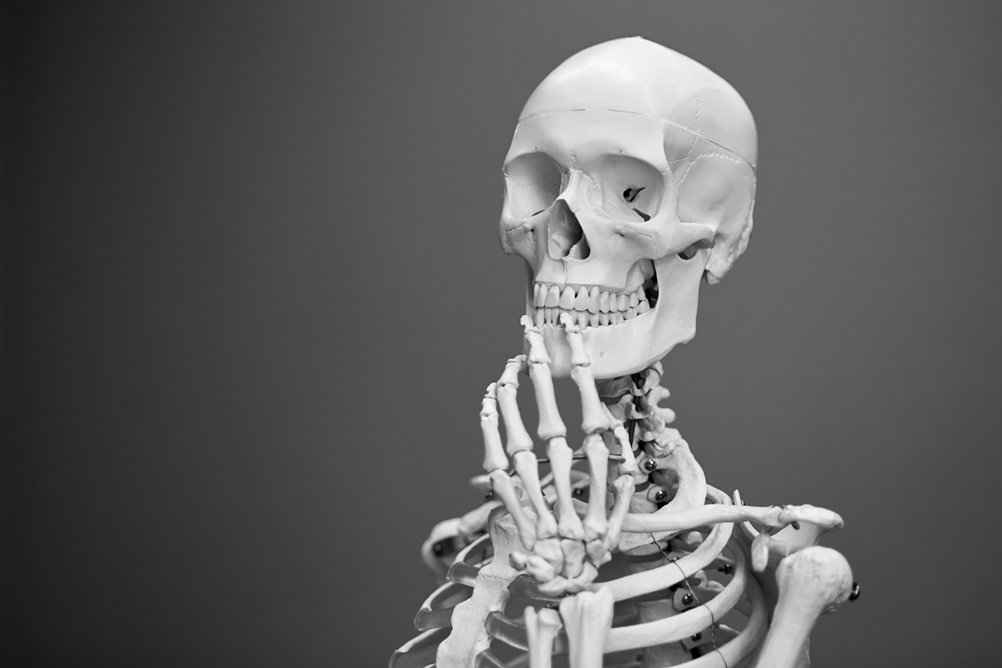
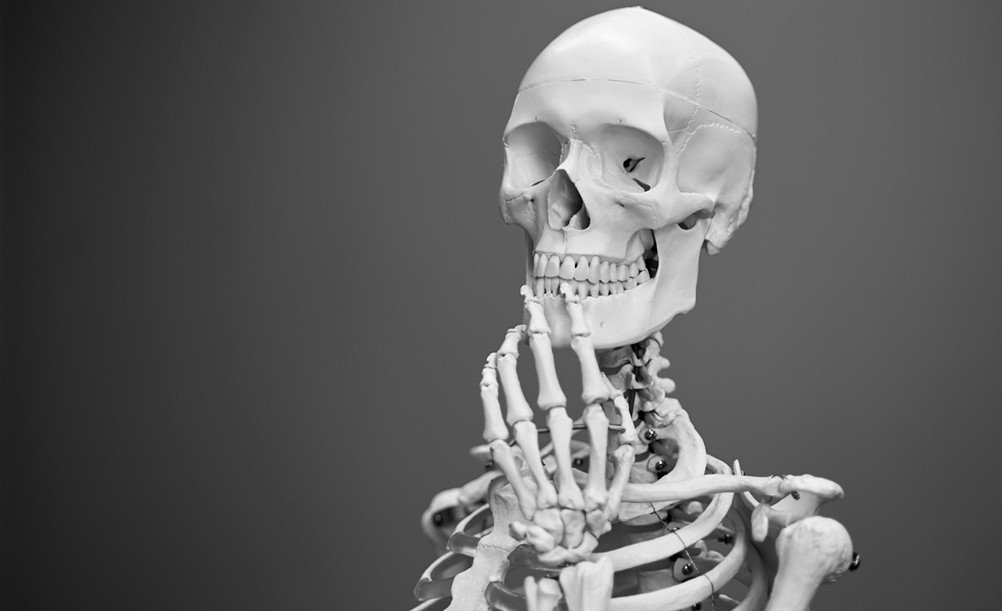
science quiz html wording change, styling changes

Changed region(s): [[0.4022, 0.5286, 0.8663, 1.0], [0.495, 0.0, 0.7735, 0.4975]]

diff --git a/science.html b/science.html
@@ -40,9 +40,11 @@
 
         <div class="quiz-container content">
             <div class="quiz-header">
-                <h2> Science Trivia Quiz</h2>
-                <p>Get ready to flex those brain muscles! This quiz is here to challenge your science smarts in all the wacky and wonderful ways. With 10 multiple-choice questions, you'll be tested on everything from atoms to bizarre facts! By the end, you'll find out just how much of a science superstar you really are. So, buckle up, pick your difficulty level, and let the fun begin!!</p>
+                <h2> Science Trivia Quiz</h2>              
                 <div class="quiz-controls">
+                    <p>🧠 Get ready to flex those brain muscles!
+                        This quiz is here to challenge your science smarts in all the wacky and wonderful ways. With 10 multiple-choice questions, you’ll be tested on everything from atoms ⚛ to bizarre facts!
+                        By the end, you'll find out just how much of a science superstar you really are 🌟. So, buckle up, pick your difficulty level, and let the fun begin! 🚀</p>
                     <div class="quiz-control-wrapper">
                         <select id="difficulty-select">
                             <option value="easy">Easy</option>
@@ -51,7 +53,7 @@
                         </select>
                         <button id="start-quiz">Start Quiz</button>
                     </div>
-                    <img src="img/skeleton.jpg">
+                    <img src="img/skeleton1.jpg">
                 </div>
             </div>
             

diff --git a/css/style.css b/css/style.css
@@ -591,15 +591,9 @@
     gap: 10px;
     margin-bottom:50px;
   }
-
-  .quiz-controls img {
-    width:700px;
-    margin-top: 25px;
-  }
-
-  .quiz-controls-wrapper #select-difficulty{
-    font-size: 4em;
-    min-width: 100px;
+  #difficulty-select{
+    font-size: 1.1em;
+    padding: 7px 20px;
   }
   #start-quiz{
     padding: 10px 20px;
@@ -609,6 +603,11 @@
     color: white;
     border: none;
     border-radius: 5px;
+  }
+
+  .quiz-controls img {
+    width:700px;
+    margin-top: 25px;
   }
 
   .question-container {
